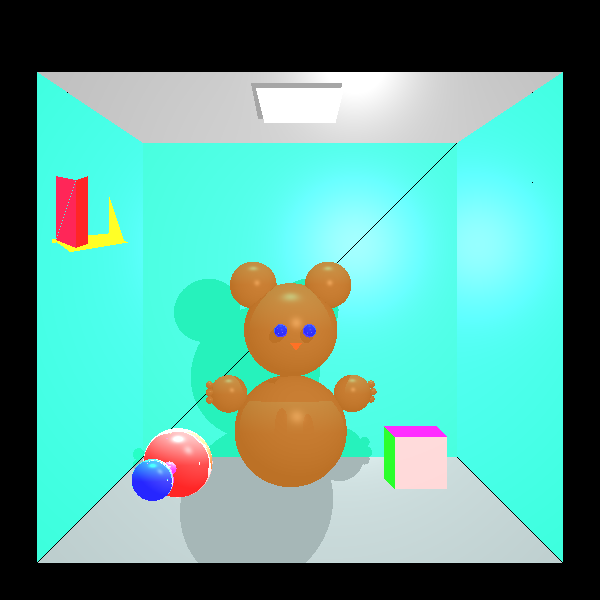
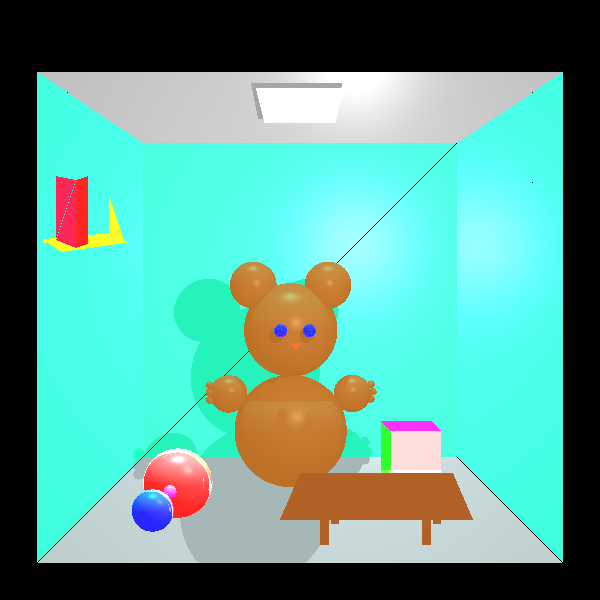
debut_8

Changed region(s): [[0.45, 0.69, 0.78, 0.93], [0.21, 0.69, 0.36, 0.9], [0.06, 0.39, 0.12, 0.42]]

diff --git a/unitTest/images/ourImages.java b/unitTest/images/ourImages.java
@@ -158,6 +158,7 @@ public class ourImages {
         Camera camera = new Camera.BuilderCamera(new Point(0, 0, 1000), new Vector(0, 0, -1), new Vector(0, 1, 0)) //
                 .setVPSize(300, 300).setVPDistance(1000) //
                 .setRayTracer(new RayTracerBasic(scene)).build();
+        Color tableColor = new Color(140, 60, 0);
         scene.getGeometries().add( //
 
                 //le fond
@@ -295,44 +296,44 @@ public class ourImages {
 
                 //box on the floor
                 new Triangle(
-                        new Point(45, -90, 50),
-                        new Point(70, -90, 50),
-                        new Point(70, -65, 50)
+                        new Point(45, -90, 10),
+                        new Point(70, -90, 10),
+                        new Point(70, -65, 10)
                 ).setEmission(new Color(pink))
                         .setMaterial(new Material().setKd(0.1).setKs(0.2).setShininess(30).setKr(0.3)),
 
                 new Triangle(
-                        new Point(45, -90, 50),
-                        new Point(45, -65, 50),
-                        new Point(70, -65, 50)
+                        new Point(45, -90, 10),
+                        new Point(45, -65, 10),
+                        new Point(70, -65, 10)
                 ).setEmission(new Color(pink))
                         .setMaterial(new Material().setKd(0.1).setKs(0.2).setShininess(30).setKr(0.3)),
 
                 new Triangle(
-                        new Point(45, -90, 50),
-                        new Point(45, -65, 50),
-                        new Point(40, -60, 50)
+                        new Point(45, -90, 10),
+                        new Point(45, -65, 10),
+                        new Point(40, -60, 10)
                 ).setEmission(new Color(green))
                         .setMaterial(new Material().setKd(0.1).setKs(0.2).setShininess(30).setKr(0.3)),
 
                 new Triangle(
-                        new Point(45, -90, 50),
-                        new Point(40, -85, 50),
-                        new Point(40, -60, 50)
+                        new Point(45, -90, 10),
+                        new Point(40, -85, 10),
+                        new Point(40, -60, 10)
                 ).setEmission(new Color(green))
                         .setMaterial(new Material().setKd(0.1).setKs(0.2).setShininess(30).setKr(0.3)),
 
                 new Triangle(
-                        new Point(40, -60, 50),
-                        new Point(45, -65, 50),
-                        new Point(70, -65, 50)
+                        new Point(40, -60, 10),
+                        new Point(45, -65, 10),
+                        new Point(70, -65, 10)
                 ).setEmission(new Color(magenta))
                         .setMaterial(new Material().setKd(0.1).setKs(0.2).setShininess(30).setKr(0.3)),
 
                 new Triangle(
-                        new Point(70, -65, 50),
-                        new Point(65, -60, 50),
-                        new Point(40, -60, 50)
+                        new Point(70, -65, 10),
+                        new Point(65, -60, 10),
+                        new Point(40, -60, 10)
                 ).setEmission(new Color(magenta))
                         .setMaterial(new Material().setKd(0.1).setKs(0.2).setShininess(30).setKr(0.3))
                 ,
@@ -393,30 +394,90 @@ public class ourImages {
                 new Triangle(
                         new Point(-100, 35, -50),
                         new Point(-100, 33, -50),
-                        new Point(-130, 30, -50)).setEmission(new Color(yellow)),
+                        new Point(-135, 30, -50)).setEmission(new Color(yellow)),
                 new Triangle(
-                        new Point(-130, 30, -50),
+                        new Point(-135, 30, -50),
                         new Point(-100, 35, -50),
-                        new Point(-130, 32, -50)).setEmission(new Color(yellow)),
+                        new Point(-135, 32, -50)).setEmission(new Color(yellow)),
                 new Triangle(
                         new Point(-100, 35, -50),
                         new Point(-90, 30, -45),
-                        new Point(-130, 32, -50)).setEmission(new Color(yellow)),
+                        new Point(-135, 32, -50)).setEmission(new Color(yellow)),
                 new Triangle(
                         new Point(-90, 30, -45),
-                        new Point(-120, 25, -45),
-                        new Point(-130, 32, -50)).setEmission(new Color(yellow)),
+                        new Point(-125, 25, -45),
+                        new Point(-135, 32, -50)).setEmission(new Color(yellow)),
 
                 new Triangle(
                         new Point(-100, 30, -45),
                         new Point(-100, 55, -45),
                         new Point(-92, 30, -50)).setEmission(new Color(yellow)),
 
+
+                //the table
+                //right foot front
+                new Triangle(
+                        new Point(60, -120, 20),
+                        new Point(64, -120, 20),
+                        new Point(64, -100, 20)
+                ).setEmission(tableColor),
+                new Triangle(
+                        new Point(60, -120, 20),
+                        new Point(60, -100, 20),
+                        new Point(64, -100, 20)
+                ).setEmission(tableColor),
+                //left foot front
+                new Triangle(
+                        new Point(10, -120, 20),
+                        new Point(14, -120, 20),
+                        new Point(14, -100, 20)
+                ).setEmission(tableColor),
+                new Triangle(
+                        new Point(10, -120, 20),
+                        new Point(10, -100, 20),
+                        new Point(14, -100, 20)
+                ).setEmission(tableColor),
+                //right foot in the back
+                new Triangle(
+                        new Point(65, -110, 20),
+                        new Point(69, -110, 20),
+                        new Point(69, -98, 20)
+                ).setEmission(tableColor),
+                new Triangle(
+                        new Point(65, -110, 20),
+                        new Point(65, -98, 20),
+                        new Point(69, -98, 20)
+                ).setEmission(tableColor),
+                //left foot in the back
+                new Triangle(
+                        new Point(15, -110, 20),
+                        new Point(19, -110, 20),
+                        new Point(19, -98, 20)
+                ).setEmission(tableColor),
+                new Triangle(
+                        new Point(15, -110, 20),
+                        new Point(15, -98, 20),
+                        new Point(19, -98, 20)
+                ).setEmission(tableColor),
+                //the plate
+                new Triangle(
+                        new Point(-10, -108, 20),
+                        new Point(75, -85, 20),
+                        new Point(0, -85, 20)
+                ).setEmission(tableColor)
+                        .setMaterial(new Material().setKd(0.01).setKs(0.5).setKr(1).setShininess(30)),
+                new Triangle(
+                        new Point(-10, -108, 20),
+                        new Point(75, -85, 20),
+                        new Point(85, -108, 20)
+                ).setEmission(tableColor)
+                        .setMaterial(new Material().setKd(0.01).setKs(0.5).setKr(1).setShininess(30)),
+
                 //balls
-                new Sphere(new Point(-60, -80, 17), 17d) //
+                new Sphere(new Point(-60, -90, 17), 17d) //
                         .setEmission(new Color(red)) //
                         .setMaterial(new Material().setKd(0.5).setKs(0.5).setKr(1).setShininess(30)),
-                new Sphere(new Point(-70, -85.5, 50), 10d) //
+                new Sphere(new Point(-70, -100, 50), 10d) //
                         .setEmission(new Color(blue)) //
                         .setMaterial(new Material().setKd(0.5).setKs(0.5).setKr(1).setShininess(30))
 
@@ -425,7 +486,8 @@ public class ourImages {
         scene.lights.add( //
                 new SpotLight(new Color(white), new Point(40, 40, 115), new Vector(-1, -1, -4)) //
                         .setKl(4E-4).setKq(2E-5));
-        scene.lights.add( new DirectionalLight(new Color(CYAN),new Vector(-0.0003,-1.0003,0)));
+
+        scene.lights.add(new DirectionalLight(new Color(CYAN), new Vector(-0.0003, -1.0003, 0)));
 
         camera.setImageWriter(new ImageWriter("project1", 600, 600)) //
                 .renderImage().writeToImage();
